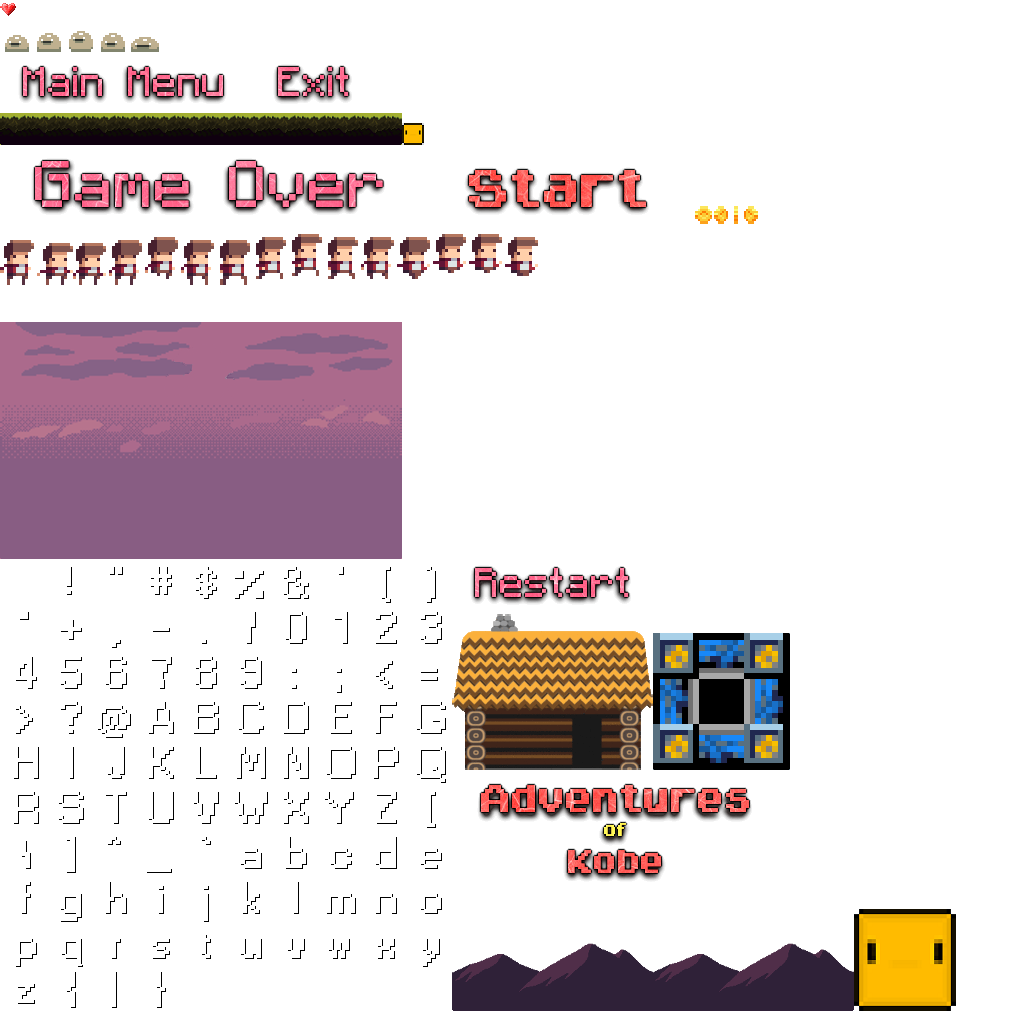
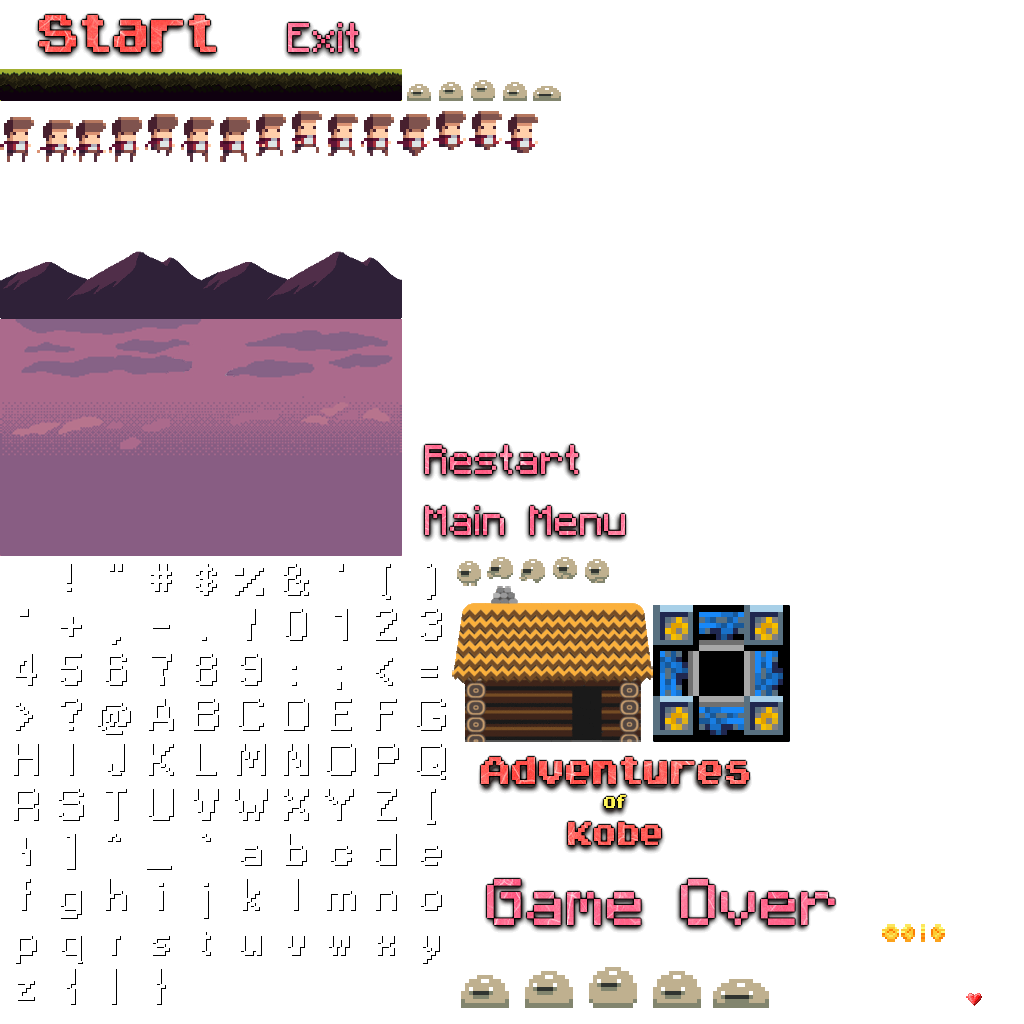
November 25, 2015 - Commit 3
Animated moving block and hit blocks

Finalizing the game:
TODO:
- U.I. for Main
- U.I. for Play
- U.I. for Game Over
- Sounds and music
- Sprites and animations
- Better death transition (?)
- Better fly animation (?)
- Connection to Server using HTTP POST
- Get ID from server

diff --git a/core/src/com/mygdx/runrunrun/sprites/HitBlock.java b/core/src/com/mygdx/runrunrun/sprites/HitBlock.java
@@ -13,8 +13,46 @@ public class HitBlock extends MoveableObject {
     private float float_value;
     private boolean interacted;
 
+    private TextureRegion[][] spriteSheet;
+    private int rowIndex;
+    private int colIndex;
+    private float animationDelay;
+
     public HitBlock(float x, float y, TextureRegion image){
         super(x, y, image, Types.HitBlock);
+
+        int width = 64;
+        int height = 64;
+        rowIndex = 0;
+        colIndex = 0;
+        animationDelay = 1f;
+        resize(width,height);
+        int rows = image.getRegionWidth() / width;
+        int cols = image.getRegionHeight() / height;
+
+        spriteSheet = new TextureRegion[rows][cols];
+
+        for(int i = 0 ; i < rows ; i ++){
+            for(int j = 0 ; j < cols ; j ++){
+                spriteSheet[i][j] = new TextureRegion(image, width * i, height * j, width, height);
+            }
+        }
+
+    }
+
+    private void updateAnimation(float dt){
+        if(animationDelay > 0){
+            if(interacted){
+                animationDelay -= 100f * dt;
+            }else{
+                animationDelay -= 10f * dt;
+            }
+        }else{
+            animationDelay = 1f;
+            rowIndex++;
+            if(rowIndex >= 5)
+                rowIndex = 0;
+        }
     }
 
     public void interact(){
@@ -34,6 +72,7 @@ public class HitBlock extends MoveableObject {
             float_value = 0;
             interacted = false;
         }
+
     }
 
     @Override
@@ -45,10 +84,13 @@ public class HitBlock extends MoveableObject {
     public void update(float dt){
         super.update(dt);
         floatUP(dt);
+
+        updateAnimation(dt);
     }
 
     @Override
     public void render(SpriteBatch sb){
-        super.render(sb);
+        if(hide == false)
+            sb.draw(spriteSheet[rowIndex][colIndex],position.x, position.y, width, height);
     }
 }

diff --git a/core/src/com/mygdx/runrunrun/sprites/Block.java b/core/src/com/mygdx/runrunrun/sprites/Block.java
@@ -13,8 +13,45 @@ public class Block extends MoveableObject{
     private float interactValue;
     private boolean interacted;
 
+    private TextureRegion[][] spriteSheet;
+    private int rowIndex;
+    private int colIndex;
+    private float animationDelay;
+
     public Block(float x, float y, TextureRegion image){
         super(x,y,image, Types.Block);
+
+        int width = 32;
+        int height = 32;
+        rowIndex = 0;
+        colIndex = 0;
+        animationDelay = 1f;
+        resize(width,height);
+        int rows = image.getRegionWidth() / width;
+        int cols = image.getRegionHeight() / height;
+
+        spriteSheet = new TextureRegion[rows][cols];
+
+        for(int i = 0 ; i < rows ; i ++){
+            for(int j = 0 ; j < cols ; j ++){
+                spriteSheet[i][j] = new TextureRegion(image, width * i, height * j, width, height);
+            }
+        }
+    }
+
+    private void updateAnimation(float dt){
+        if(animationDelay > 0){
+            if(interacted){
+                animationDelay -= 100f * dt;
+            }else{
+                animationDelay -= 10f * dt;
+            }
+        }else{
+            animationDelay = 1f;
+            rowIndex++;
+            if(rowIndex >= 5)
+                rowIndex = 0;
+        }
     }
 
     public void interact(){
@@ -40,10 +77,13 @@ public class Block extends MoveableObject{
             interactValue = 0;
             interacted = false;
         }
+
+        updateAnimation(dt);
     }
 
     public void render(SpriteBatch sb){
-        super.render(sb);
+        if(hide == false)
+            sb.draw(spriteSheet[rowIndex][colIndex],position.x, position.y, width, height);
     }
 
 }

diff --git a/core/src/com/mygdx/runrunrun/states/PlayState.java b/core/src/com/mygdx/runrunrun/states/PlayState.java
@@ -221,15 +221,15 @@ public class PlayState extends State{
         objects.lastElement().setHide(true);
 
         // Moving objects
-        objects.add(new MovingBlock(0, 0, Main.resource.getAtlas("assets").findRegion("blob1"), 20f));
+        objects.add(new MovingBlock(0, 0, Main.resource.getAtlas("assets").findRegion("blob3"), 20f));
         objects.lastElement().setHide(true);
 
         // Blocks
         for (int i = 0; i < level; i++) {
             if (i < (level / 2) + 2) {
-                objects.add(new Block(0, 0, Main.resource.getAtlas("assets").findRegion("block1")));
+                objects.add(new Block(0, 0, Main.resource.getAtlas("assets").findRegion("blob1")));
             } else {
-                objects.add(new HitBlock(0, 0, Main.resource.getAtlas("assets").findRegion("block2")));
+                objects.add(new HitBlock(0, 0, Main.resource.getAtlas("assets").findRegion("blob2")));
             }
             objects.lastElement().setHide(true);
         }
